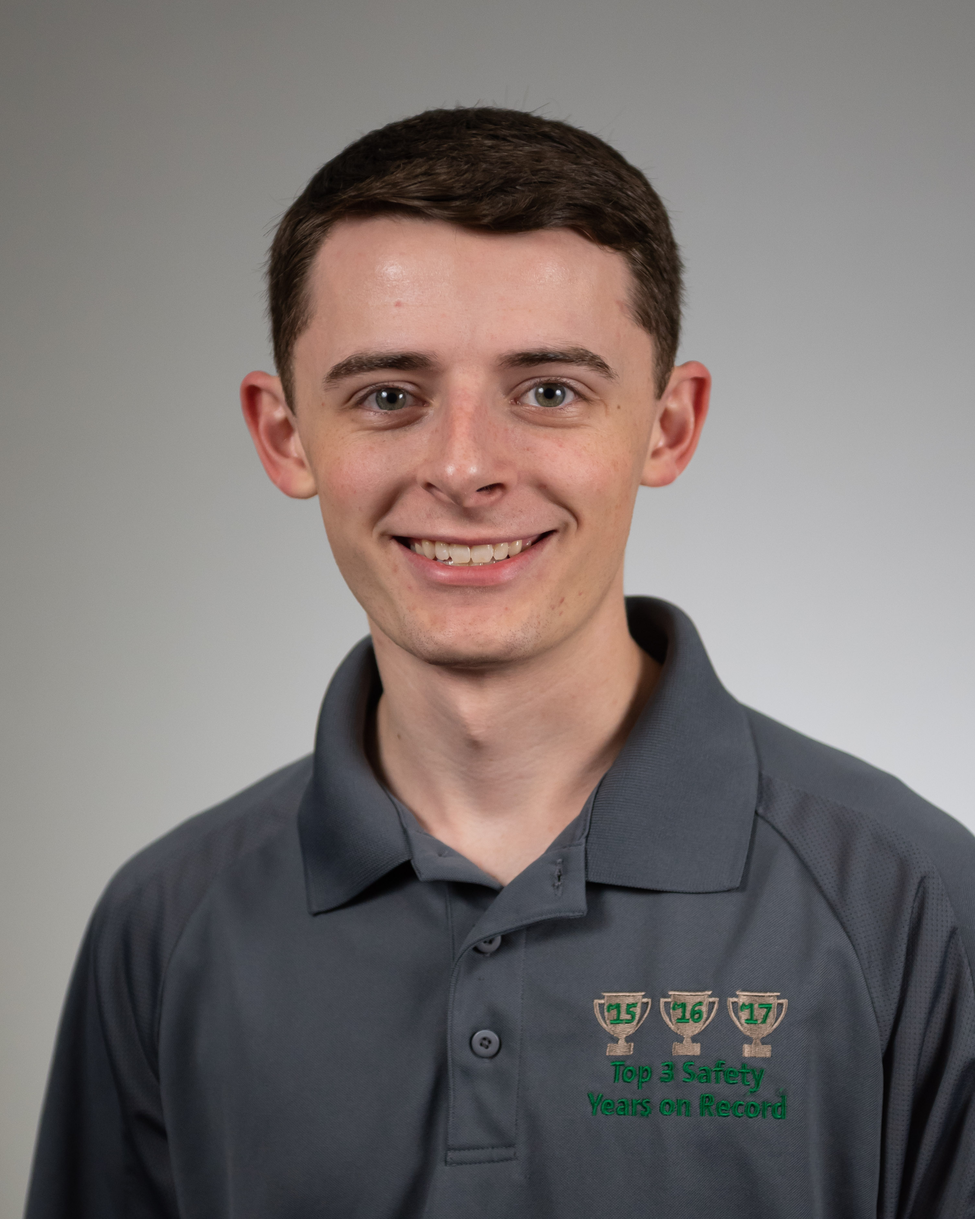
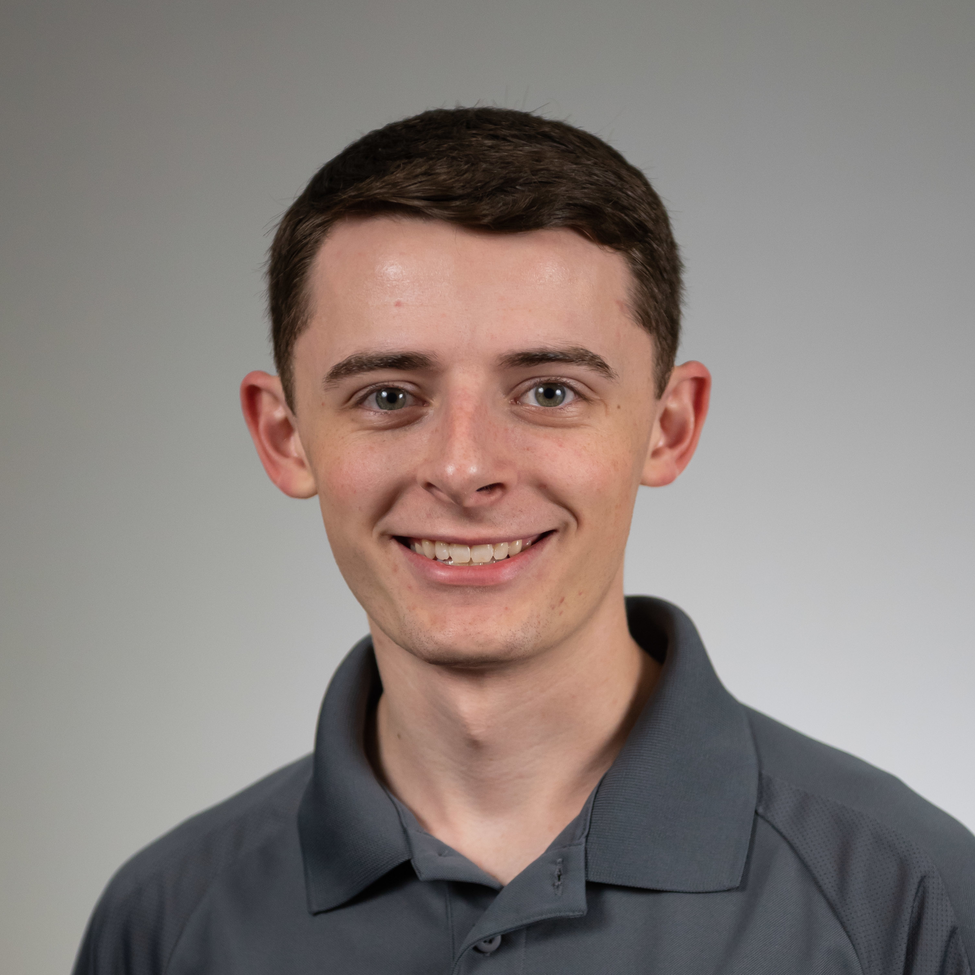
Crop image and fix scale

diff --git a/index.html b/index.html
@@ -40,7 +40,7 @@
 <body class="w3-white">
     <!-- Image and name container. Change to your picture here. -->
     <div class="image-container">
-        <img src="Headshot.jpg" class="w3-margin" alt="Headshot" max-width="100%" height="100%"
+        <img src="Headshot.jpg" class="w3-margin" alt="Headshot" max-width="100%" height="150px"
             style="border-radius: 50%;">
 
         <!-- Content. Add your bio here. -->
